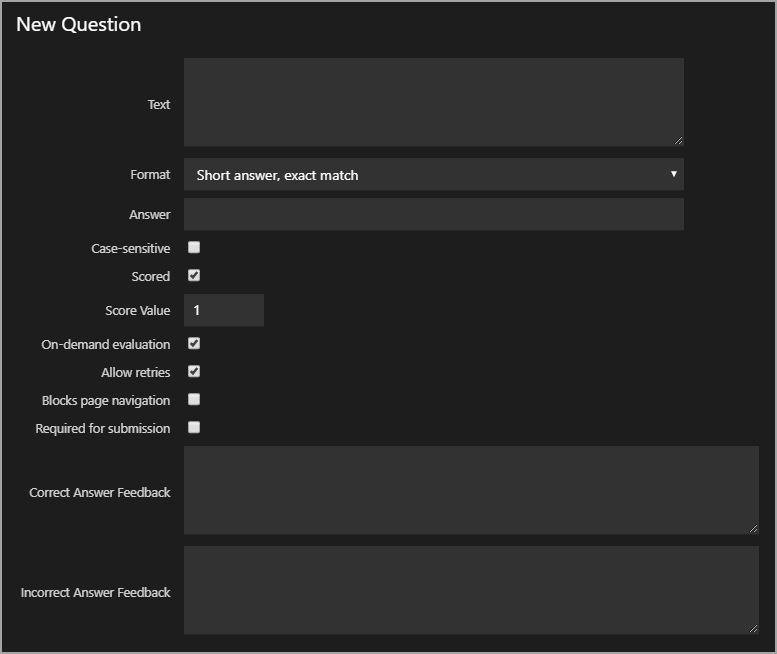
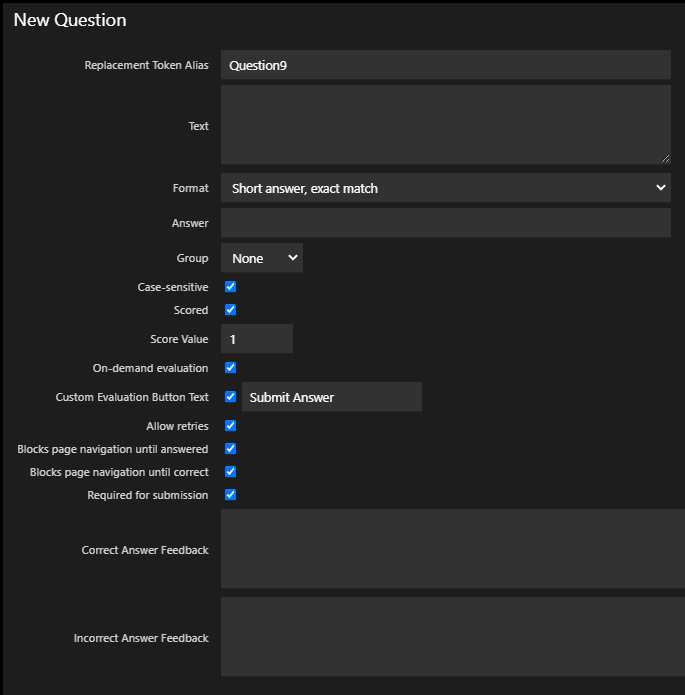
ABA Groups

diff --git a/lod/activities.md b/lod/activities.md
@@ -42,7 +42,9 @@ Click to go to a specific section, or continue reading to learn more about creat
 - [Scoring](#scoring)
     - [Performance Based Testing](#performance-based-testing)
     - [Scoring Methods](#scoring-methods)
+- [Group Management](#group-management)
 - [Activity Management](#activity-management)
+
 
 ## Automated Activities 
 
@@ -168,6 +170,8 @@ Along with traditional PowerShell, Windows Command Shell, and Bash syntax, there
 
 - **Name**: this will be the title of the automated Activity, and will be displayed in the lab instruction editor, in the activities menu.
 
+- **Replacement Token Alias**: this allows you to change the token to something more identifiable when reviewing the IDLx of the lab.
+
 - **Instructions**: this is where instructions for the Activity are entered, and will be displayed to students, in the lab instructions. 
 
 - **Scored**: enables the question to be scored. Scoring must be enabled in your lab. [Scoring is covered below in this document](#scoring).
@@ -182,7 +186,9 @@ Along with traditional PowerShell, Windows Command Shell, and Bash syntax, there
 
 - **Required for submission**: requires the student to perform the Activity, to submit their lab for grading.
 
-- **Blocks page navigation**: checking this box prevents the student from navigating to the next page in the lab instructions, unless they have entered or selected an answer to this question. 
+- **Blocks page navigation until evaluated**: checking this box prevents the student from navigating to the next page in the lab instructions unless they have entered or selected an answer to this question. 
+
+- **Blocks page navigation until passed**: checking this box prevents the student from navigating to the next page in the lab instructions until the objective in the automated activity is completed.
 
 - **Correct answer feedback**: this will be displayed to the user upon entering or selecting a correct answer to a question. 
 
@@ -319,15 +325,23 @@ Optionally, you can enable scoring for Questions in your lab. Once scoring is en
 
 - **Add Answer**: click to add an answer to the multiple choice question. 
 
+- **Group**: You can choose to add this to a Activity Group by selecting from the dropdown. This option is only displayed if a group is active.
+
+- **Randomize Answer Sequence**: When selected, the answers provided will be displayed to the student in random order.
+
 - **Scored**: enables the question to be scored. Scoring must be enabled in your lab. [Scoring is covered below in this document](#scoring).
 
 - **Score Value**: the value the student will receive upon selecting a correct answer.
 
 - **On-Demand Evaluation**: enables a button that the user can click to check their answer to a multiple choice question in the lab, or to score their answer if Activities are set to be scored.
- 
+
+- **Custom Evaluation Button Text**: allows you to customized the text displayed on the evaluation button. 
+
 - **Allow retries**: allows the user to retry a question if they select an incorrect answer. This option is not available when On-Demand Evaluation is disabled. 
 
-- **Blocks page navigation**: checking this box prevents the student from navigating to the next page in the lab instructions, unless they have selected an answer to this question. 
+- **Blocks page navigation until answered**: checking this box prevents the student from navigating to the next page in the lab instructions, unless they have selected an answer to this question. 
+
+- **Blocks page navigation until passed**: checking this box prevents the student from navigating to the next page in the lab instructions until the question is answered correctly.
 
 - **Required for submission**: click to make this multiple choice question required, for the student to submit their lab. 
 
@@ -347,6 +361,8 @@ Optionally, you can enable scoring for Questions in your lab. Once scoring is en
 
 - **Text**: This is where the short answer question is entered. This will also be the text that is displayed in the Activities editing menu.
 
+- **Group**: You can choose to add this to a Activity Group by selecting from the dropdown. This option is only displayed if a group is active.
+
 - **Format**: the format can be changed by clicking the drop-down menu. Format options include:
     - Short answer, exact match
     - Short answer, regex match
@@ -360,6 +376,8 @@ Optionally, you can enable scoring for Questions in your lab. Once scoring is en
 - **Score Value**: the value the student will receive upon entering a correct answer.
 
 - **On-Demand Evaluation**: enables a button that the user can click to check their answer to a short answer question in the lab, or to score their answer if Activities are set to be scored.
+
+- **Custom Evaluation Button Text**: allows you to customized the text displayed on the evaluation button. 
  
 - **Allow retries**: allows the user to retry a question if they enter an incorrect answer. This option is not available when On-Demand Evaluation is disabled. 
 
@@ -498,9 +516,35 @@ Partial scoring is achieved with automated Activities in IDLx. To configure part
 
 ### Performance Based Testing 
 
-Labs can be scored with a performance based testing scenario by leaving the _On-demand_ checbox unchecked, when creating automated activities. When activities are configured this way, they are scored when the lab is completed by the student. The score can be obtained by viewing the lab instance details. 
+Labs can be scored with a performance based testing scenario by leaving the _On-demand_ checkbox unchecked, when creating automated activities. When activities are configured this way, they are scored when the lab is completed by the student. The score can be obtained by viewing the lab instance details. 
 
 ![](images/display-as-task-list.png)
+
+## Group Management
+
+Activities can be sorted into groups so that they are easier to manage. Multiple groups can be specified. By default, the activities will be displayed in the order they are added to the group, but may be rearranged using the caret on the far right of the activity row.  
+
+![](../lod/images/activities-edit-menu.png)
+
+**The following options apply to activity groups:**
+
+![](../lod/images/group-management.png)
+
+- **Name**: Human readable, this makes it easier to distinguish activities.
+
+- **Replacement Token Alias**: this allows you to change the token to something more identifiable when reviewing the IDLx of the lab.
+
+- **Randomize**: When selected, the activities within the group will be displayed to the student in random order.
+
+- **# Activities to Display**: All activities within the group will be displayed by default, but you can set the lab to randomly display a subset of activities by specifying an integer here.
+
+- **Scored**: this controls whether the activities in the group will be scored. If all activities are shown, scoring will default to what is specified in the individual activity rather than what is specified at the group level.
+
+- **Activity Score Value**: when displaying only a subset of activities from the group and scoring enabled, a score must be specified for all activities within the group. Due to the randomization, all activities within the group will have the same score to normalize the outcome across all deliveries of the exam.
+
+- **On-Demand evaluation**: when any activities within the group are configured for On-demand evaluation, selecting this option will allow the student to select just one button to evaluate all applicable activities. Activities belonging to the group but configured without On-Demand evaluation set on the activity level will be evaluated only when the exam is submitted. 
+
+- **Custom Evaluation Button Text**: allows you to customized the text displayed on the evaluation button. 
 
 ## Activity Management
 
@@ -547,7 +591,7 @@ To access this menu, simply click the **Activities Icon**
 > ```
 
 > [ps-complex-explanation]:
-> **Explicit score value Example** (Complex Script - Partial Credit/Multiple Conditions)
+> **Explicit Score Value Example** (Complex Script - Partial Credit/Multiple Conditions)
 >
 > This sample actually reads the host entry on a Windows machine, and identifies both the hostname and any IPs associated with it. From there it validates if it has both the correct IP and hostname. With this design the user can get variable scores based on the following:
 > 
@@ -612,3 +656,5 @@ To access this menu, simply click the **Activities Icon**
 > fi
 > echo $RESULT
 > ```
+
+[Back to Top](#activities)
